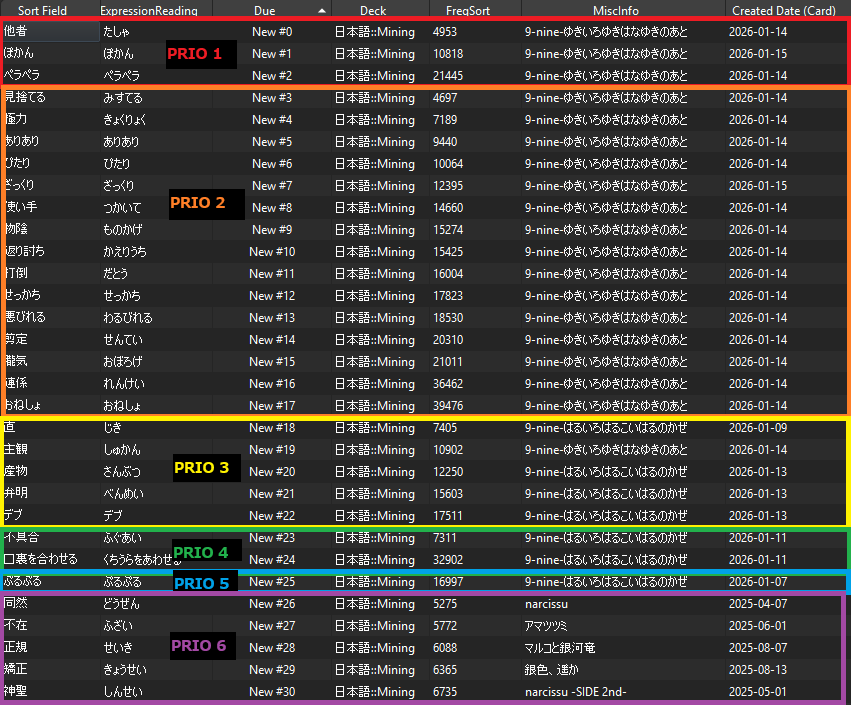
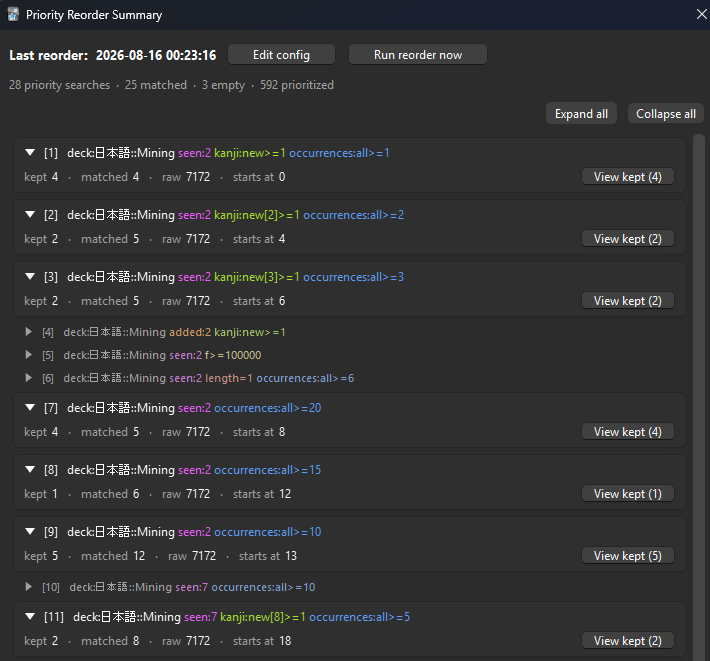
new update

diff --git a/CHANGELOG.md b/CHANGELOG.md
@@ -1,6 +1,7 @@
 # Changelog
 
-## 2026-07-30
+## 2026-08-16
+- Release [Daily Occurrences addon](https://github.com/tomahtoes/daily-occurrences) to allow tracking daily seen words.
 - New `variant_matching` occurrence option — credits a card with the counts of dictionary entries that are another *written form* of the same word, differing in okurigana or kanji spelling. An entry counts when its reading matches the card's and the two forms' kanji nest, which keeps same-reading homophones apart; kana-only spellings never match here. Applies to `occurrences:` and `seen:` alike.
 - New `suffix_matching` occurrence option — the mirror of `prefix_matching` at the *end* of a word. A card is credited with the counts of dictionary entries that end with its expression, so a head morpheme aggregates its family: `学校` ← `小学校`/`中学校`, and head-final compound verbs/adjectives like `出す` ← `思い出す` or `強い` ← `心強い`. Restricted to real words (≥ 2 characters with a kanji); a bare single kanji matches only via reading-validated particle phrases (`母の日` credits `日`). Applies to `occurrences:` and `seen:` alike.
 - `kanji:new` now takes an optional per-kanji target: `kanji:new[3]>=1` matches words with at least one kanji that fewer than 3 of your learned words contain. A kanji counts as "new" until the target number of learned words contain it; plain `kanji:new` is unchanged (equivalent to `kanji:new[1]`).

diff --git a/README.md b/README.md
@@ -205,7 +205,9 @@ Prioritize words you've encountered recently in your immersion, using *daily* oc
 - **⚡ Keep windows small**: cost grows with # of days, so **the smaller your window, the faster the reorder** — `seen:1`–`seen:3` are cheap, large windows (`seen:30`+) get noticeably slower, especially with settings like `prefix_matching` or `variant_matching` on. If you care at all about sorting speed, use the smallest window that still means "recently seen". (Reusing the *same* window across several priority searches is free within a reorder.)
 
 #### Setup for Seen Dictionaries
-Place your daily occurrence dictionaries in a reserved `_seen` folder under `user_files`, one subfolder per day named `YYYY-MM-DD`:
+I have additionally created a new [Daily Occurrences addon](https://github.com/tomahtoes/daily-occurrences) that will create seen dictionaries for you per day so long as the text is coming in through a websocket, as is often the case for VN based workflows.
+
+If you wish to develop your own method of building these, place your daily occurrence dictionaries in a reserved `_seen` folder under `user_files`, one subfolder per day named `YYYY-MM-DD`:
 ```
 user_files/
 └── _seen/
